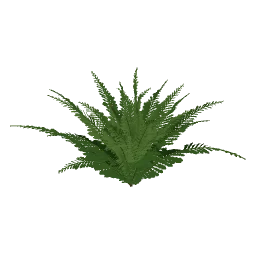
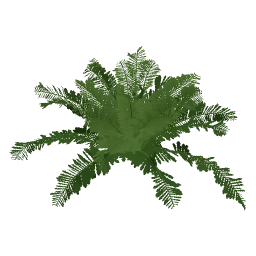
feat(templates): the Boston fern is a fountain of arching strap fronds
The fronds stood stiff and straight in a V and tapered to a point, and
the template had drifted from its section in PLANT_TEMPLATES.md.

- Gravity follows the place of a frond on the crown: the outer fronds
  start lower and hang until their tips reach the ground, the inner
  ones only arch over.
- A frond is a strap: the pinnae keep one length along most of it. It
  has 110 pinnae, about 4 times as long as wide, on 22 fronds, the
  numbers the template notes and the doc gave.
- The fronds come one after another from the outside in, and a growing
  frond is rolled up at its tip and unrolls.
- PLANT_TEMPLATES.md describes the graph as it is.

The remodelled template no longer builds what it built with degrees
before graph version 14, so its entry leaves the radians recording, as
dandelion and yarrow did in 46f8158.

Refs #463

Changed region(s): [[0.0312, 0.1875, 0.9688, 0.8125]]

diff --git a/docs/PLANT_TEMPLATES.md b/docs/PLANT_TEMPLATES.md
@@ -168,7 +168,7 @@ Family Nephrolepidaceae.
 
 **Structure:** Many fronds rise from the crown in a fountain. The inner fronds are erect and arch over, the outer ones hang. A frond is up to 1.5 m long (40–90 cm in pot forms) and _once-pinnate_. It has a short scaly stipe (about a fifth of the frond) and then 40–70 pinnae on each side, alternating, in one flat plane. Each pinna is linear-oblong, about 2–7 cm × 0.6–1.8 cm, with a crenate (scalloped) margin and a small ear (auricle) at the upper base. The pinnae stay almost the same length along the frond and only shorten near the tip, so the frond is a long strap.
 
-**Template:** 22 fronds grow from a short crown at the golden angle, so they spread evenly around the plant. An `alpha -> curve` tilts them by age: the outer, older fronds low on the crown spread out (0.58 rad above horizontal), the young ones in the middle stand upright (1.41 rad), ±0.1 rad at random. Gravity arches them (strength 1, elasticity 0.35). Each frond carries 110 pinnae from 13% to 99%, alternating sides (`rotation 3.14`) and slightly ascending (`angle 0.2618`). The bare first 13% is the stipe. An `alpha -> curve` on their size keeps the pinnae the same length along most of the frond, slightly shorter at its base and short at its tip, so the frond is a strap. The pinna shape is oblong with a scalloped margin. The auricle is missing because shapes are mirrored.
+**Template:** 22 fronds grow from a short crown at the golden angle, so they spread evenly around the plant. An `alpha -> curve` tilts them by age: the outer, older fronds low on the crown spread out (0.7 rad above horizontal), the young ones in the middle stand upright (1.4 rad), ±0.14 rad at random. Gravity arches them by their place on the crown, a `path_info` with parent position into a `curve`: the outer fronds hang until their tips come down to the ground (strength 0.9–1.25, one value per seed), the inner ones only arch over (a third of it), with elasticity 0.3. That makes the fountain. Each frond carries 110 pinnae from 10% to 99%, alternating sides (`rotation` about 3.14) and slightly ascending (`angle` 0.29 rad at the base of the frond to 0.47 rad at its tip). The bare first 10% is the stipe. An `alpha -> curve` on their size keeps the pinnae the same length along most of the frond, slightly shorter at its base and short at its tip, so the frond is a strap. The pinna shape is oblong, about 4 times as long as wide, with a scalloped margin. The auricle is missing because shapes are mirrored. The fronds come one after another from the outside in: the time minus a `curve` of `alpha` of up to 0.6 goes into their `growth`. A growing frond is a crozier: a `roll` after the gravity reads `path_info` grown through a `curve`, rolls up the tip and unrolls it as the frond grows.
 
 **Colours:** The crown is brown, the stipe brownish and the rachis green. The pinnae pick from two greens by the age of their frond (`path_info` parent position into the `index`): the outer, older fronds are darker, the inner ones lighter, and every pinna is lighter toward its tip. One shade per seed.
 
